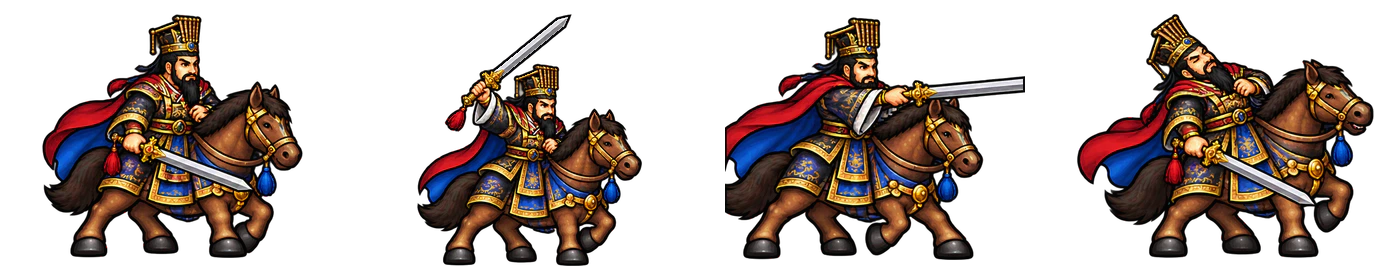
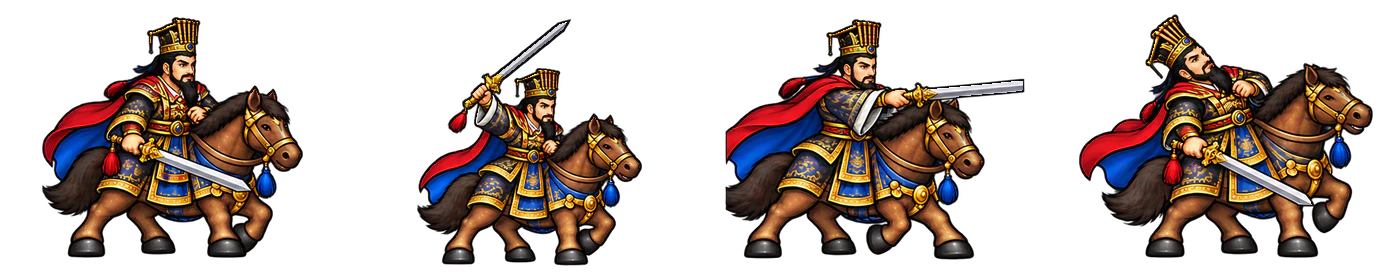
feat(art): add Xiang Yu and refresh ruler faces

diff --git a/packages/web/test/officer-models.test.ts b/packages/web/test/officer-models.test.ts
@@ -2,7 +2,7 @@ import {describe,expect,it} from 'vitest';
 import {readFileSync} from 'node:fs';
 import {officerBattleSheet,officerDuelModel,officerDuelModelStyle,officerEntry,officerManifest,officerModelSheets} from '../src/officer-models.ts';
 
-const lordIds=['cao_cao','cao_pi','cao_rui','liu_bei','sun_quan','gongsun_yuan','yuan_tan','yuan_shang','liu_bang'] as const;
+const lordIds=['cao_cao','cao_pi','cao_rui','liu_bei','sun_quan','gongsun_yuan','yuan_tan','yuan_shang','liu_bang','xiang_yu'] as const;
 function webpSize(file:URL){
   const b=readFileSync(file),vp8x=b.indexOf(Buffer.from('VP8X'));
   expect(vp8x).toBeGreaterThanOrEqual(0);
@@ -13,8 +13,8 @@ function webpSize(file:URL){
 describe('장수별 전투 SD와 대결 모델',()=>{
   const players=[['sima_yi','사마의'],['cao_zhen','조진'],['sima_lang','사마랑'],['sima_fang','사마방'],['sima_shi','사마사'],['sima_zhao','사마소']] as const;
 
-  it('대상 43명과 모든 공개 시트를 색인한다',()=>{
-    expect(officerManifest).toHaveLength(43);
+  it('대상 44명과 모든 공개 시트를 색인한다',()=>{
+    expect(officerManifest).toHaveLength(44);
     const sheets=new Set(officerModelSheets.map(s=>s.id));
     for(const entry of officerManifest)for(const battle of Object.values(entry.battle))expect(sheets.has(battle.sheet),battle.sheet).toBe(true);
   });
@@ -38,7 +38,7 @@ describe('장수별 전투 SD와 대결 모델',()=>{
     expect(infantry.action.row).toBe(3);
   });
 
-  it('군주 9명은 군주 전 계통에서 전용 기마 시트를 찾는다',()=>{
+  it('군주 10명은 군주 전 계통에서 전용 기마 시트를 찾는다',()=>{
     for(const id of lordIds)for(const unitClass of ['lord','hegemon','sovereign','sonOfHeaven'] as const){
       const model=officerBattleSheet({id,name:id,unitClass})!;
       expect(model.action.sheet,`${id}/${unitClass}`).toBe(`officers/${id}-battle-lord-v1.webp`);
@@ -46,7 +46,7 @@ describe('장수별 전투 SD와 대결 모델',()=>{
     }
   });
 
-  it('군주 9명의 전투 시트는 1400×280이다',()=>{
+  it('군주 10명의 전투 시트는 1400×280이다',()=>{
     for(const id of lordIds)expect(webpSize(new URL(`../public/officers/${id}-battle-lord-v1.webp`,import.meta.url)),id).toEqual([1400,280]);
   });
 
@@ -68,5 +68,6 @@ describe('장수별 전투 SD와 대결 모델',()=>{
     expect(officerDuelModel({id:'lu_bu',name:'여포'})?.sheet).toBe('officers/lu_bu-duel-v2.webp');
     expect(officerDuelModel({id:'cao_cao',name:'조조'})?.sheet).toBe('officers/cao_cao-duel-v1.webp');
     expect(officerDuelModel({id:'cao_pi',name:'조비'})?.sheet).toBe('officers/cao_pi-duel-v1.webp');
+    expect(officerDuelModel({id:'xiang_yu',name:'항우'})?.sheet).toBe('officers/xiang_yu-duel-v1.webp');
   });
 });

diff --git a/packages/web/src/officer-models.ts b/packages/web/src/officer-models.ts
@@ -27,6 +27,7 @@ export const officerManifest:OfficerEntry[]=[
   E('xu_chu','허저',c('xu_chu','infantry'),{story:'xu_chu-story-v1.webp',bust:'xu_chu-bust-v1.webp',duel:'officer-battle-wei-v2.webp'}),
   E('ma_chao','마초',{...c('ma_chao','cavalry'),...c('ma_chao','heavyCav',1,350,280)},{story:'ma_chao-story-v1.webp',bust:'ma_chao-bust-v1.webp',duel:'officer-battle-rivals-v2.webp'}),
   E('lu_bu','여포',{...c('lu_bu','cavalry'),...c('lu_bu','heavyCav',1,350,280)},{story:'lu_bu-story-v1.webp',bust:'lu_bu-bust-v1.webp',duel:'officers/lu_bu-duel-v2.webp'}),
+  E('xiang_yu','항우',c('xiang_yu','lord',1,350,280),{duel:'officers/xiang_yu-duel-v1.webp'}),
   E('chen_gong','진궁',c('chen_gong','strategist'),{story:'chen_gong-story-v1.webp',bust:'chen_gong-bust-v1.webp',duel:'officer-battle-rivals-v2.webp'}),
   E('zhou_yu','주유',{...c('zhou_yu','strategist'),...c('zhou_yu','archer',1,350,280)},{story:'zhou_yu-story-v1.webp',bust:'zhou_yu-bust-v1.webp',duel:'officer-battle-rivals-v2.webp'}),
   E('liu_bei','유비',c('liu_bei','lord',1,350,280)),E('guan_yu','관우',c('guan_yu','cavalry')),E('zhang_fei','장비',c('zhang_fei','spearman')),
@@ -78,6 +79,7 @@ const duelRows:Record<string,{sheet:string;row:number;rows:number}>={
   sima_yi:{sheet:'officer-battle-sima',row:0,rows:4},sima_yi_young:{sheet:'officer-battle-sima',row:1,rows:4},sima_lang:{sheet:'officer-battle-sima',row:2,rows:4},sima_fang:{sheet:'officer-battle-sima',row:3,rows:4},
   cao_zhen:{sheet:'officer-battle-wei',row:0,rows:4},cao_cao:{sheet:'officers/cao_cao-duel-v1.webp',row:0,rows:1},cao_pi:{sheet:'officers/cao_pi-duel-v1.webp',row:0,rows:1},xu_chu:{sheet:'officer-battle-wei',row:3,rows:4},
   ma_chao:{sheet:'officer-battle-rivals',row:0,rows:4},lu_bu:{sheet:'officers/lu_bu-duel-v2.webp',row:0,rows:1},chen_gong:{sheet:'officer-battle-rivals',row:2,rows:4},zhou_yu:{sheet:'officer-battle-rivals',row:3,rows:4},
+  xiang_yu:{sheet:'officers/xiang_yu-duel-v1.webp',row:0,rows:1},
   sima_shi:{sheet:'officers/sima_shi-duel-v1.webp',row:0,rows:1},sima_zhao:{sheet:'officers/sima_zhao-duel-v1.webp',row:0,rows:1},
 };
 export function officerDuelModel(u:OfficerLike){const e=officerEntry(u);return e?duelRows[e.id]:undefined;}

diff --git a/packages/web/src/troop-evolution.ts b/packages/web/src/troop-evolution.ts
@@ -47,7 +47,7 @@ function classArt(c:UnitClass){
 const officerArt=(name:string,b:OfficerEntry['battle'][string])=>`<div class="cx-sprite" role="img" aria-label="${esc(name)}" style="background-image:url(${esc(b.sheet)});background-size:400% ${b.rows*100}%;background-position:0 0"></div>`;
 const rangeLine=(c:UnitClass)=>{const p=profileOf(c);return `<div class="evo-range">${reachMini(c)}<p><b>${esc(classNames[c]??c)} · ${esc(reachLabel(c))}</b><span>사거리 ${p.range[0]===p.range[1]?p.range[0]:p.range[0]+'~'+p.range[1]} · 이동 ${p.movement}</span></p></div>`;};
 const personCard=(art:string,small:string,name:string,c:UnitClass,extra='')=>`<article class="evo-card evo-person-card"><div class="evo-top">${art}<div><small>${small}</small><h4>${esc(name)}</h4></div></div>${rangeLine(c)}${extra}</article>`;
-/** 장수의 병종: 군주 9명은 군주, 나머지는 전용 전투 그림의 첫 병종(제갈량 수레 제외). */
+/** 장수의 병종: 군주 9명과 서초패왕 항우는 군주, 나머지는 전용 전투 그림의 첫 병종(제갈량 수레 제외). */
 const officerClass=(e:OfficerEntry):UnitClass=>(LORD_NAMES.includes(e.name)?'lord':Object.keys(e.battle).find(k=>k!=='cart')) as UnitClass;
 const officerSheet=(e:OfficerEntry,c:string)=>e.battle[c]??e.battle.lord??Object.entries(e.battle).find(([k])=>k!=='cart')?.[1];
 function officerCards(){

diff --git a/packages/web/test/npc-roster.test.ts b/packages/web/test/npc-roster.test.ts
@@ -59,9 +59,9 @@ describe('NPC 목록', ()=>{
 });
 
 describe('군주', ()=>{
-  it('조조·조비·조예·유비·손권·공손연·원담·원상·유방은 군주 계통에 선다', async ()=>{
+  it('군주 9명과 서초패왕 항우는 군주 계통에 선다', async ()=>{
     const {officerClass}=await import('../src/officer-perks.ts');
-    for(const n of ['조조','조비','조예','유비','손권','공손연','원담','원상','유방'])expect(officerClass(n)).toBe('lord');
+    for(const n of ['조조','조비','조예','유비','손권','공손연','원담','원상','유방','항우'])expect(officerClass(n)).toBe('lord');
     const {ROUTES}=await import('../src/fate.ts');
     const bosses=ROUTES.map(r=>r.region.boss).filter(b=>['조조','조비','조예','유비','손권','공손연','원담','원상'].includes(b.name));
     expect(bosses.length).toBeGreaterThan(0);

diff --git a/packages/web/src/officer-factions.ts b/packages/web/src/officer-factions.ts
@@ -6,5 +6,5 @@ export const OFFICER_FACTION:Record<string,OfficerFaction>=Object.fromEntries([
   ...of('위','sima_yi','sima_yi_young','cao_zhen','sima_lang','sima_fang','sima_shi','sima_zhao','cao_cao','cao_pi','cao_rui','xu_chu','xiahou_dun','xiahou_yuan','zhang_liao','xu_huang','zhang_he','cao_ren','xun_yu'),
   ...of('촉','liu_bei','guan_yu','zhang_fei','wooden_zhuge','zhao_yun','huang_zhong','wei_yan','jiang_wei','pang_tong','ma_chao'),
   ...of('오','sun_quan','zhou_yu','lu_xun','lu_meng','gan_ning','lu_su','huang_gai'),
-  ...of('군웅','lu_bu','chen_gong','meng_huo','zhu_rong','gongsun_yuan','yuan_tan','yuan_shang','liu_bang'),
+  ...of('군웅','lu_bu','xiang_yu','chen_gong','meng_huo','zhu_rong','gongsun_yuan','yuan_tan','yuan_shang','liu_bang'),
 ]);

diff --git a/packages/web/src/lords.ts b/packages/web/src/lords.ts
@@ -1,2 +1,2 @@
 /** 군주로 싸우는 인물 — 병종은 군주 계통(군주 → 패주 → 제왕 → 천자)이다. */
-export const LORD_NAMES:readonly string[]=['조조','조비','조예','유비','손권','공손연','원담','원상','유방'];
+export const LORD_NAMES:readonly string[]=['조조','조비','조예','유비','손권','공손연','원담','원상','유방','항우'];

diff --git a/docs/art/장수-전투모델-재모델링-기준.md b/docs/art/장수-전투모델-재모델링-기준.md
@@ -55,7 +55,7 @@
 
 ## 1. 대상 장수
 
-모든 장수를 바꾸지 않습니다. 아래 43명만 작업하고, 나머지 장수는 지금 그림을 그대로 둡니다.
+모든 장수를 바꾸지 않습니다. 아래 44명만 작업하고, 나머지 장수는 지금 그림을 그대로 둡니다.
 
 ### 대상 A: 주요 장수 14명
 
@@ -317,7 +317,7 @@
 | 사마방 | `sima_fang` | 창병 | 창 | 흰 수염, 노인 관, 갈색 전포 | 4 |
 | 사마사 | `sima_shi` | 기병 | 말 + 창 | 검은 투구, 날카로운 눈매, 검은 망토 | 4 |
 | 사마소 | `sima_zhao` | 노병 | 쇠뇌 | 금테 투구, 짧은 수염, 자주색 망토 | 4 |
-| 조조 | `cao_cao` | 군주 | 흑마 + 장검 | 금관, 붉은 망토, 짧은 수염 | 1 |
+| 조조 | `cao_cao` | 군주 | 조황비전을 닮은 백마 + 장검 | 금관, 붉은 망토, 젊은 얼굴과 짧은 수염 | 1 |
 | 조비 | `cao_pi` | 군주 | 백마 + 장검 | 작은 금관, 자주색 도포 위 갑옷, 젊은 얼굴 | 1 |
 | 허저 | `xu_chu` | 보병 | 큰 칼 + 방패 | 거구에 드러낸 팔, 붉은 두건, 붉은 허리띠 | 1 |
 | 마초 | `ma_chao` | 중기병·기병 | 말 + 창 | 사자 투구, 흰 털 망토 | 1 |
@@ -325,11 +325,11 @@
 | 진궁 | `chen_gong` | 책사 | 부채 | 검은 관, 짙은 갈색 도포, 짧은 수염 | 1 |
 | 주유 | `zhou_yu` | 궁병·책사 | 궁병 줄은 활, 책사 줄은 부채 | 젊은 미남, 금관, 붉은 망토 | 2 |
 
-### 대상 B: 인기 장수·군주 29명
+### 대상 B: 인기 장수·군주 30명
 
 | 장수 | 병종 | 탈것·무기 | 식별 요소 | 줄 수 |
 |---|---|---|---|---|
-| 유비 | 군주 | 이마에 흰 점이 있는 갈색 적로 + 쌍고검 | 큰 귀와 온화한 얼굴, 황색 관 | 1 |
+| 유비 | 군주 | 절영을 닮은 짙은 흑갈색 말 + 쌍고검 | 큰 귀와 젊고 온화한 얼굴, 황색 관 | 1 |
 | 관우 | 기병 | 말 + 청룡언월도 | 긴 검은 수염, 붉은 얼굴, 금관, 짙은 녹색 갑옷·전포 | 1 |
 | 장비 | 창병 | 장팔사모(뱀 모양 창끝) | 범 수염, 검은 얼굴, 부릅뜬 눈 | 1 |
 | 제갈량 | 책사 | 백우선 | 윤건(두건), 흰 학창의 | 1 (+수레 1) |
@@ -345,7 +345,7 @@
 | 장합 | 기병 | 말 + 창 | 붉은 술, 은갑 | 1 |
 | 조인 | 중기병 | 말 + 창 | 두꺼운 중갑, 등에 멘 방패, 굵은 수염 | 1 |
 | 순욱 | 책사 | 부채 | 단정한 관, 긴 수염, 학자풍 회색 도포 | 1 |
-| 손권 | 군주 | 갈색 말 + 장검 | 붉은 수염, 금관, 붉은 군주 망토 | 1 |
+| 손권 | 군주 | 갈색 말 + 장검 | 젊은 얼굴, 붉은 수염, 금관, 붉은 군주 망토 | 1 |
 | 육손 | 책사 | 부채 | 젊은 서생, 흰 도포, 붉은 끈 관 | 1 |
 | 여몽 | 기병·보병 | 기병 줄은 말 + 창, 보병 줄은 칼 + 방패 | 중갑, 붉은 전포, 짧은 수염 | 2 |
 | 감녕 | 산적 | 산적 병사와 같은 무기 | 허리의 금방울, 깃털 머리장식, 문신 | 1 |
@@ -357,7 +357,8 @@
 | 공손연 | 군주 | 흑마 + 장검 | 북방 털모자, 털 망토 | 1 |
 | 원담 | 군주 | 갈색 말 + 장검 | 붉은 술 투구, 짙은 녹갈 망토, 수염 | 1 |
 | 원상 | 군주 | 백마 + 장검 | 젊은 미남, 흰 망토, 은갑 | 1 |
-| 유방 | 군주 | 갈색 말 + 장검 | 대나무 껍질 관(유씨관), 긴 수염, 붉은 망토 | 1 |
+| 유방 | 군주 | 갈색 말 + 장검 | 대나무 껍질 관(유씨관), 젊은 얼굴과 단정한 검은 수염, 붉은 망토 | 1 |
+| 항우 | 군주 | 흑마 + 대형 장검 | 젊은 얼굴, 검은 옻칠 패왕 투구와 붉은 술, 검은 미늘갑옷, 붉은 망토, 거대한 체격 | 1 |
 
 ---
 
@@ -365,12 +366,12 @@
 
 | 순서 | 작업 |
 |---|---|
-| 1 | 장수 식별표 확정(7장, 43명) |
+| 1 | 장수 식별표 확정(7장, 44명) |
 | 2 | 대상 A 14명 전투 SD + 진영 염색 적용 |
 | 3 | 일기토·설전 크기·모션·오류(4장) |
 | 4 | 스토리신: 대상 A 스토리 SD·흉상, 대화창(5장) |
 | 5 | 사마사·사마소 대결 모델 |
-| 6 | 대상 B 29명 전투 SD. 촉 → 위 → 오 → 남만·군주 순 |
+| 6 | 대상 B 30명 전투 SD. 촉 → 위 → 오 → 남만·군주 순 |
 
 ---
 
